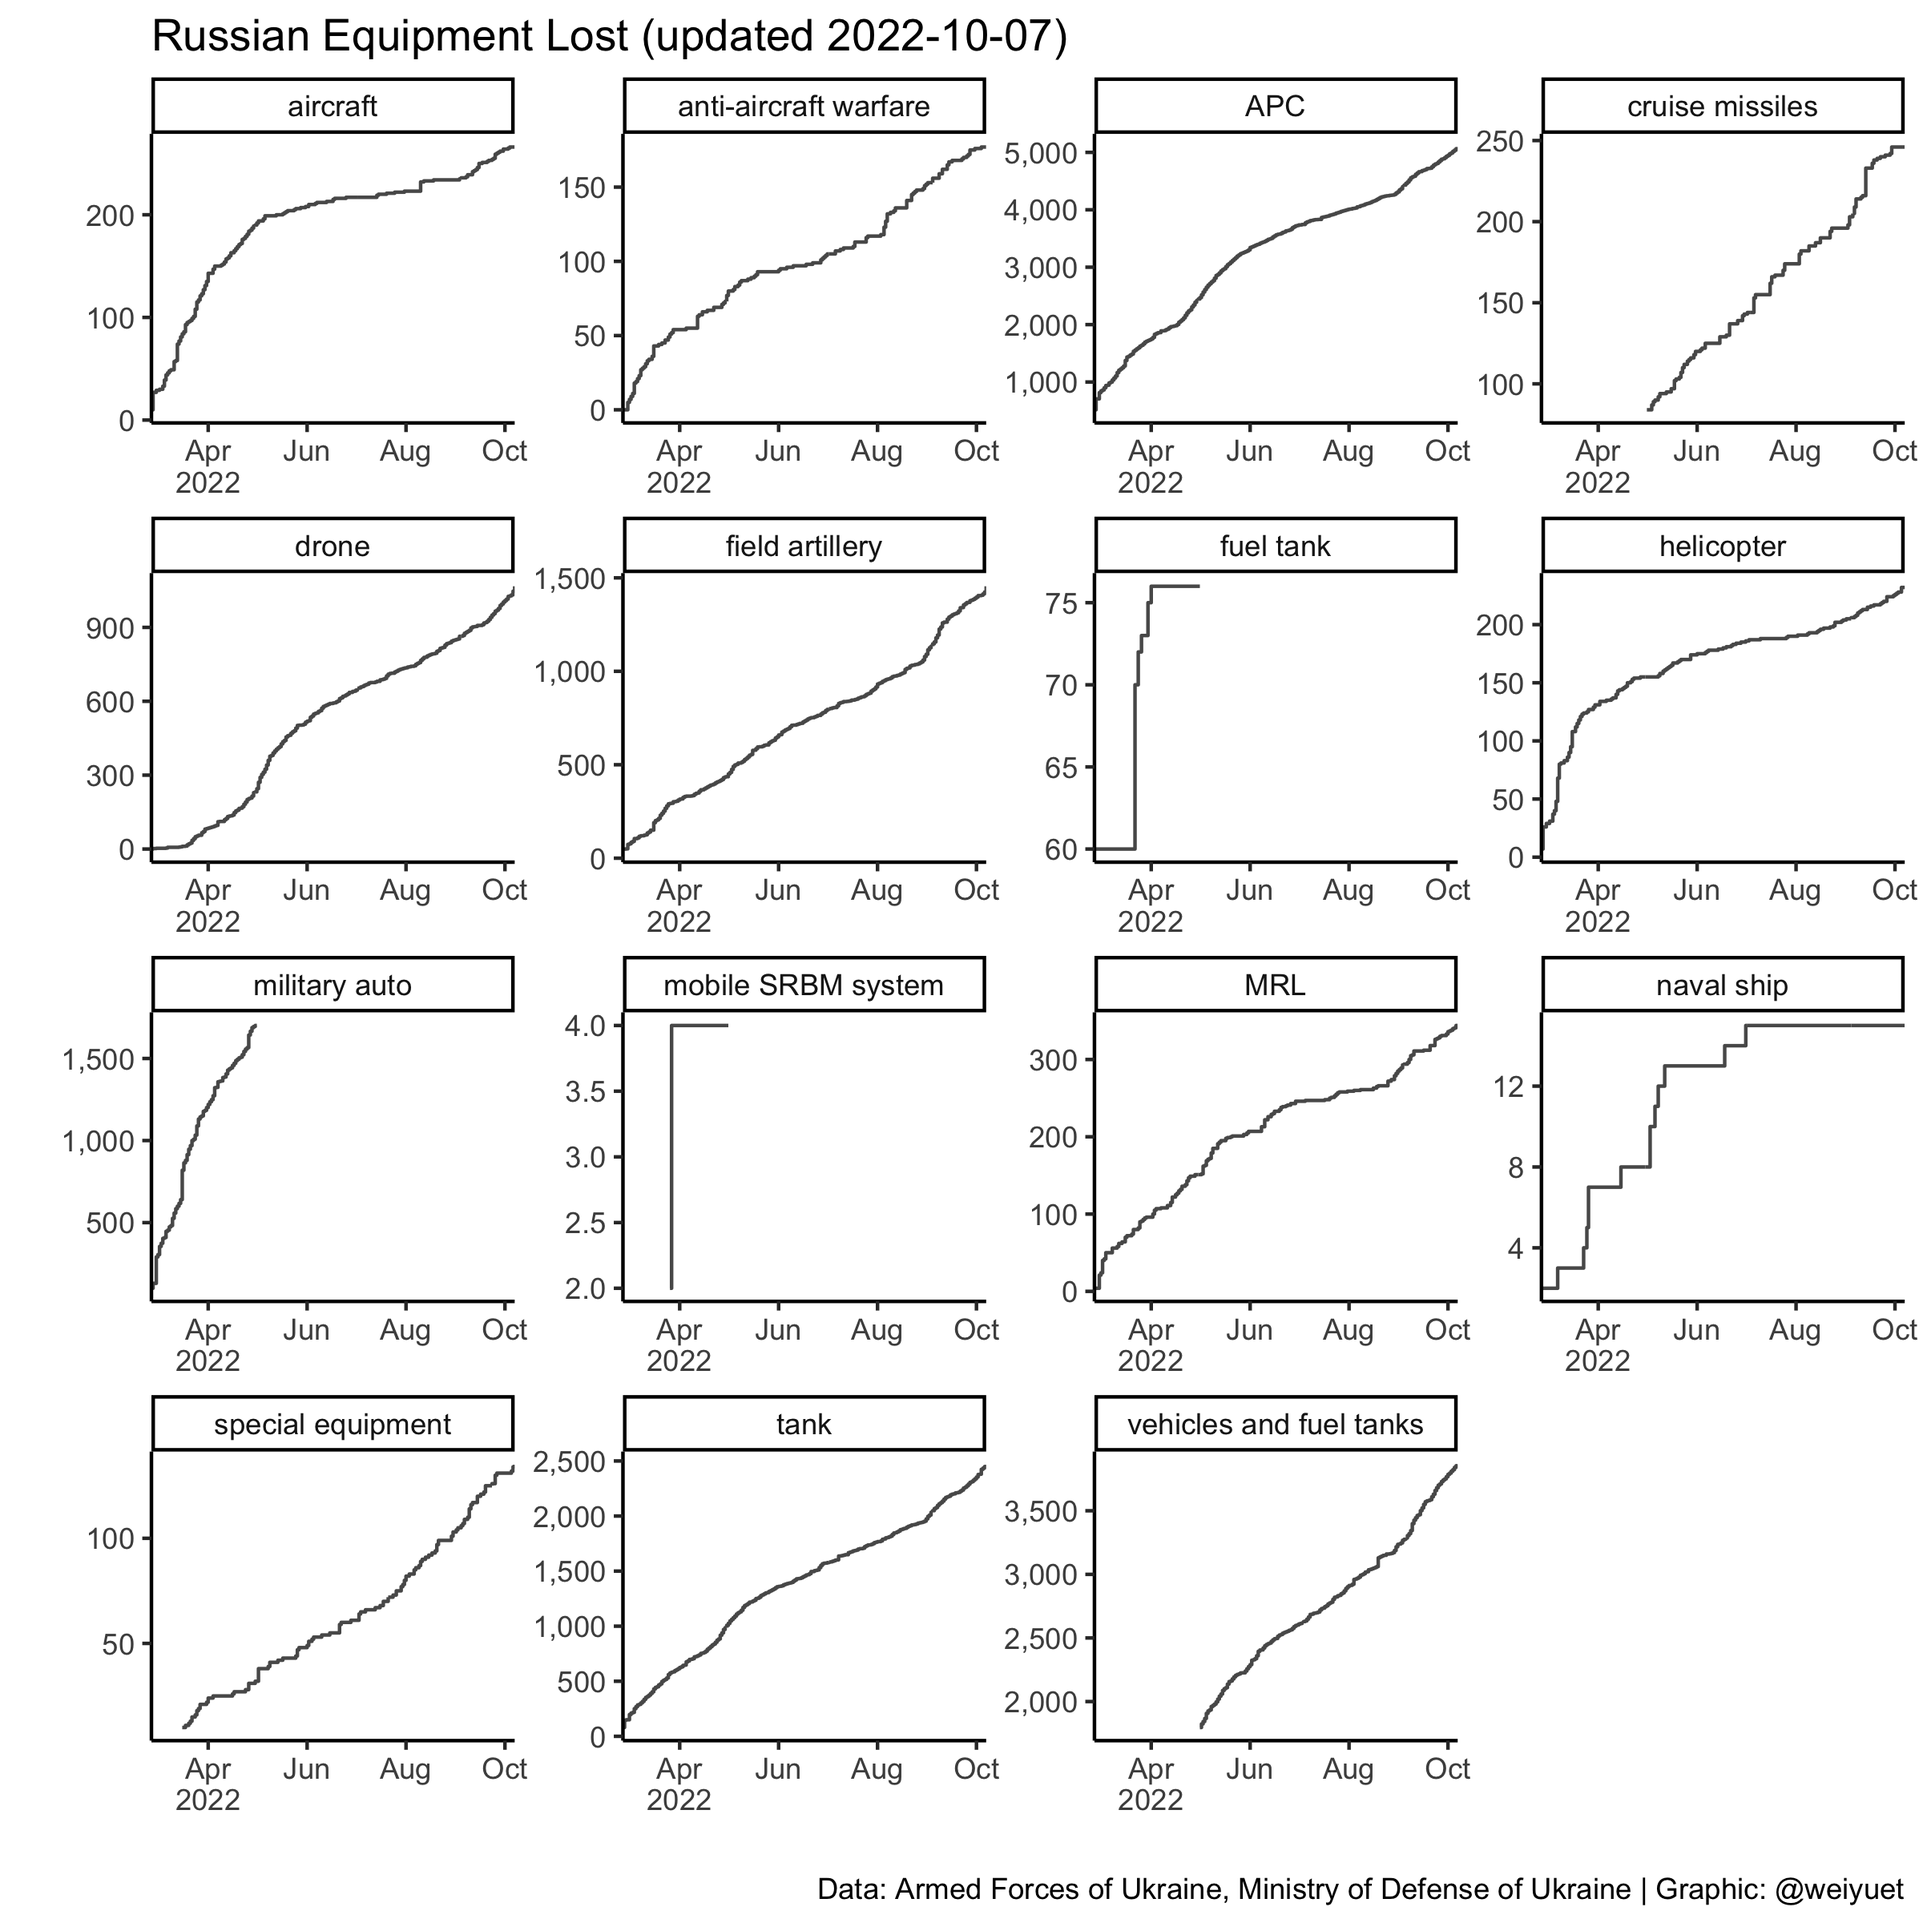
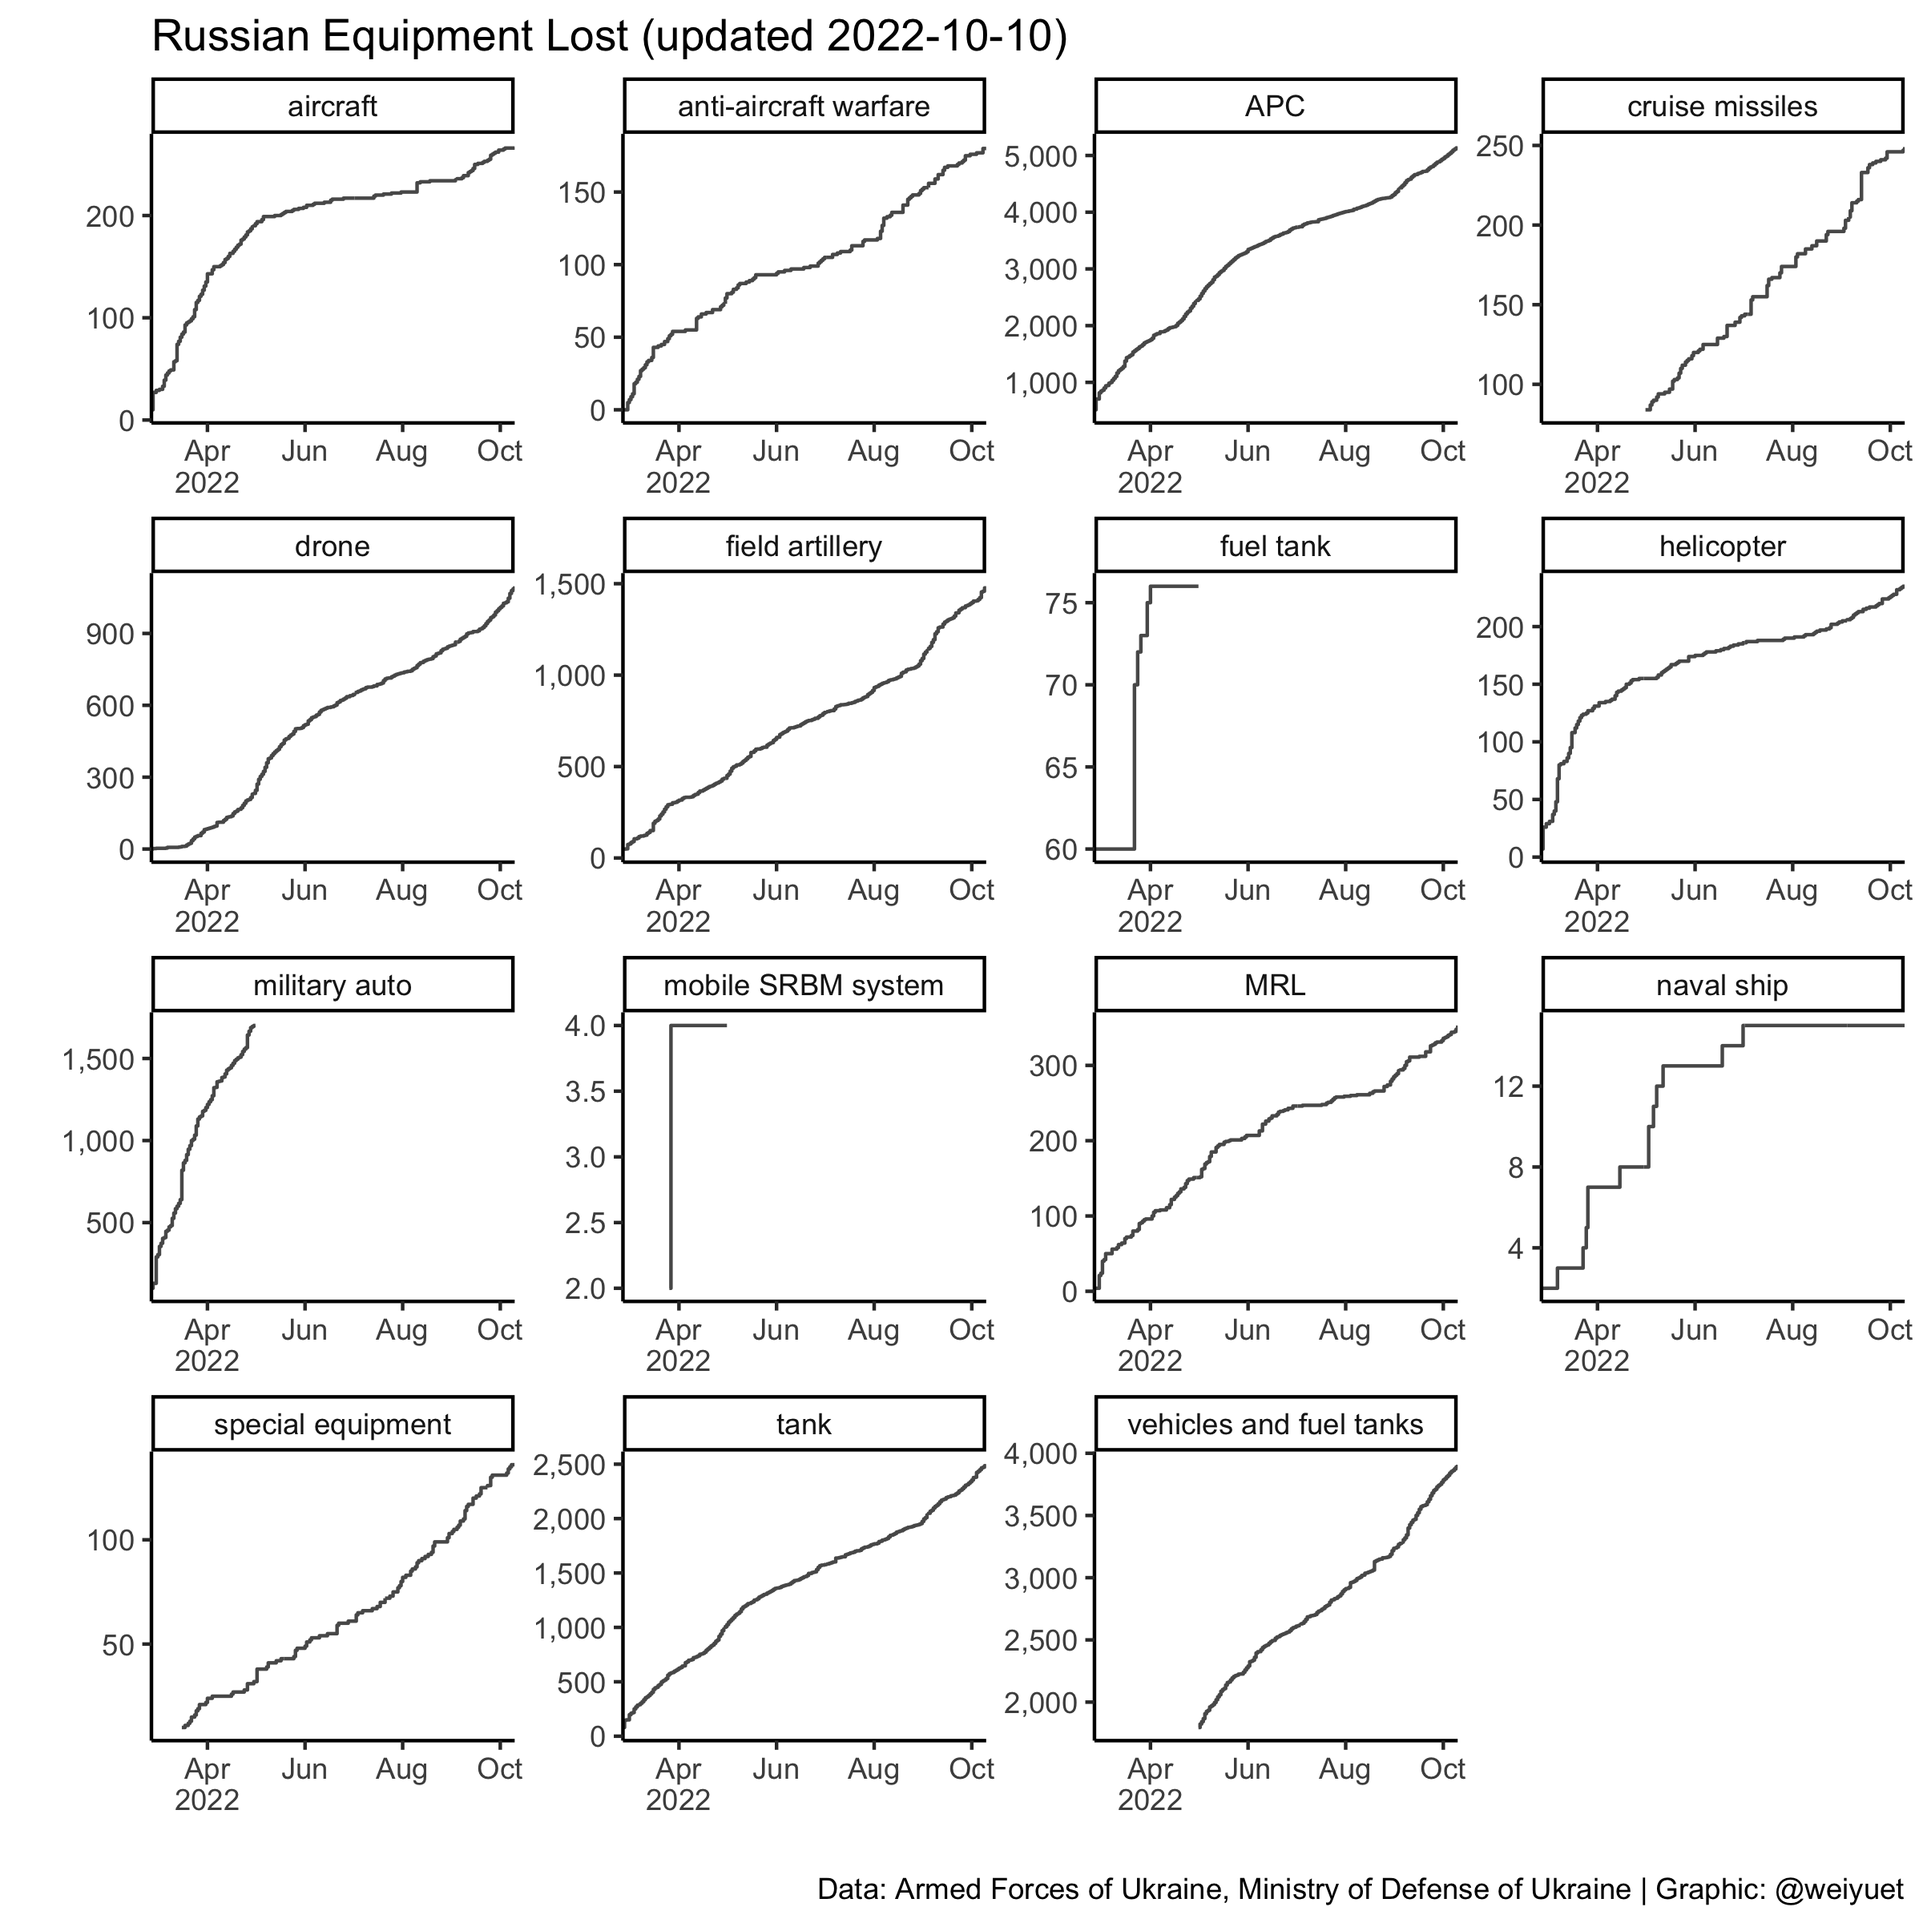
Updated 10 October

diff --git a/README.md b/README.md
@@ -6,7 +6,7 @@ Wong Wei Yuet 2022-05-26
 
   - War casualty data updated daily from [`Petro Ivanyuk's Kaggle`](https://www.kaggle.com/datasets/piterfm/2022-ukraine-russian-war). All data is official and put together by Petro
 
-Updated: 2022-10-07
+Updated: 2022-10-10
 
 ## Summary of Conflict
 
